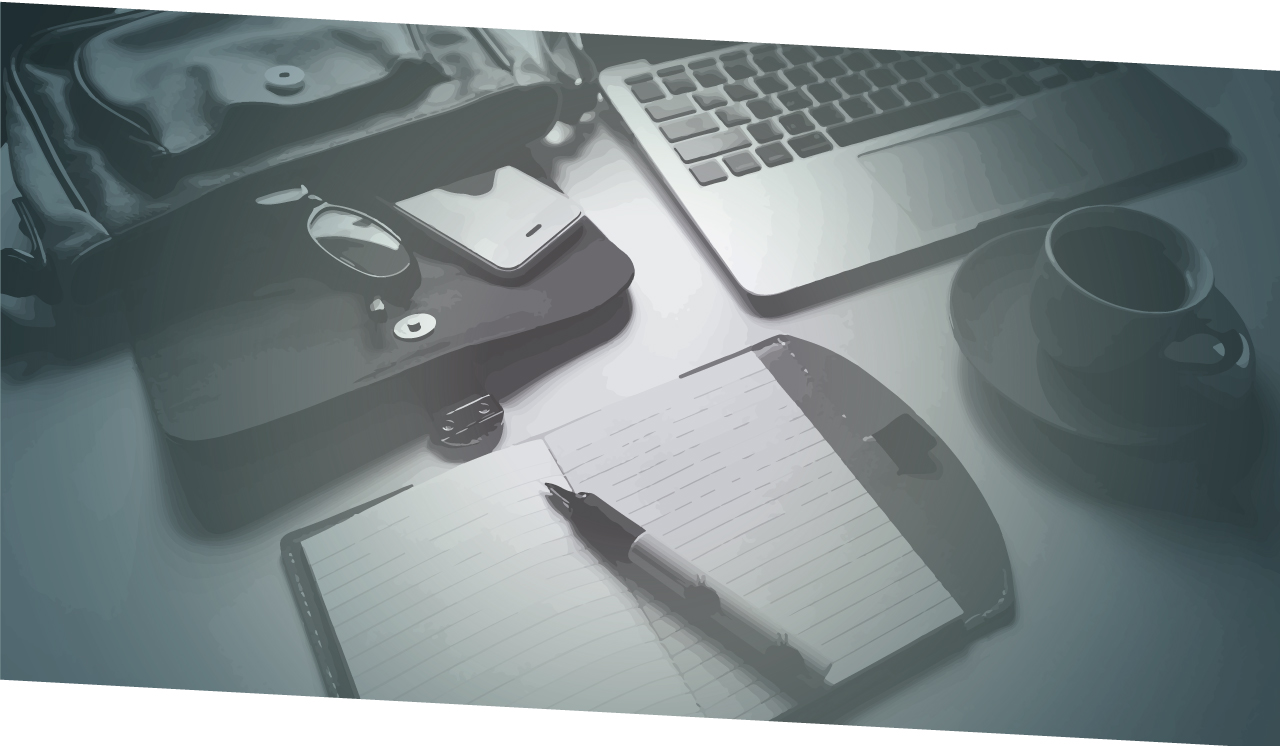
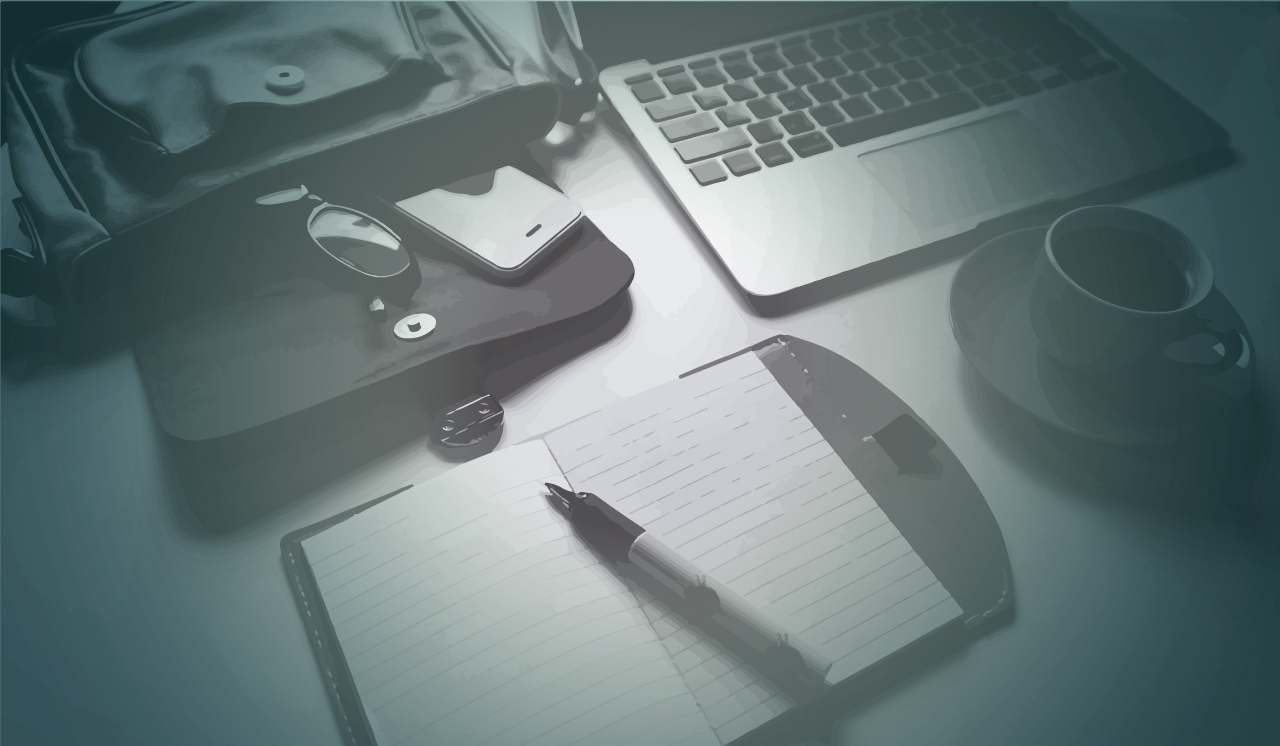
Cambio sección Servicios

diff --git a/index.html b/index.html
@@ -284,7 +284,8 @@
             </section>
             <!-- / SECTION -->
         </div>
-        <div id="services" class="pages">
+        <div id="services" class="pages" style="position: relative;">
+            <div class="tringulo" style="width: 0;height: 0;border-right: 1380px solid #ffffff; border-top: 0px solid #ffffff;border-left: 50px solid transparent;border-bottom: 50px solid transparent;position: absolute;top: 0;left: 0;"></div>
             <div class="container space-y-t">
                 <div class="col-md-12">
                     <h1 class="section-header">Servicios</h1>
@@ -322,6 +323,7 @@
                     </div>
                 </div>
             </div>
+            <div class="tringulo" style="width: 0;height: 0;border-right: 50px solid transparent; border-top: 50px solid transparent;border-left: 1380px solid #ffffff;border-bottom: 50px solid #ffffff;position: absolute;bottom: 0;left: 0;"></div>
             <!-- end container -->
         </div>
         <div id="about" class="pages" >

diff --git a/css/style.css b/css/style.css
@@ -160,8 +160,7 @@ span.wpcf7-not-valid-tip {
 }
 #services{ 
   background-image: url('../img/services.jpg');  
-  background-size: 100% 98%;
-  background-repeat: no-repeat;
+   background-size: cover;
 
 /*  background: #E8E8E8; */ /*fbfaf9*/
 }
@@ -368,7 +367,9 @@ filter: progid:DXImageTransform.Microsoft.gradient( startColorstr='#1395d1', end
   color: #EDEDED;
 }
 
-
+#services{
+  padding-bottom: 60px;
+  }
 #services h1{
   color: #ffffff;
   
